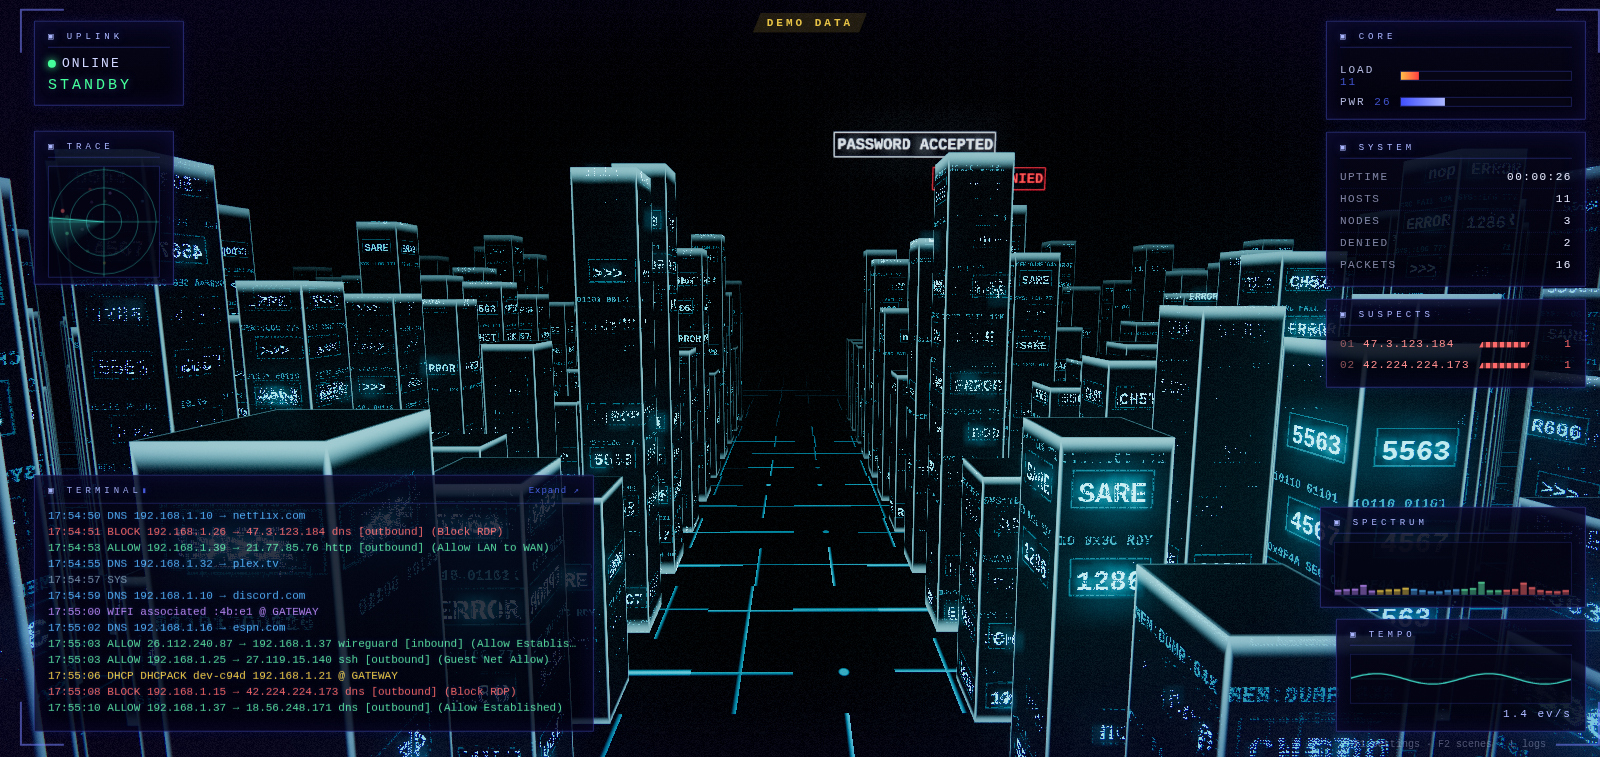
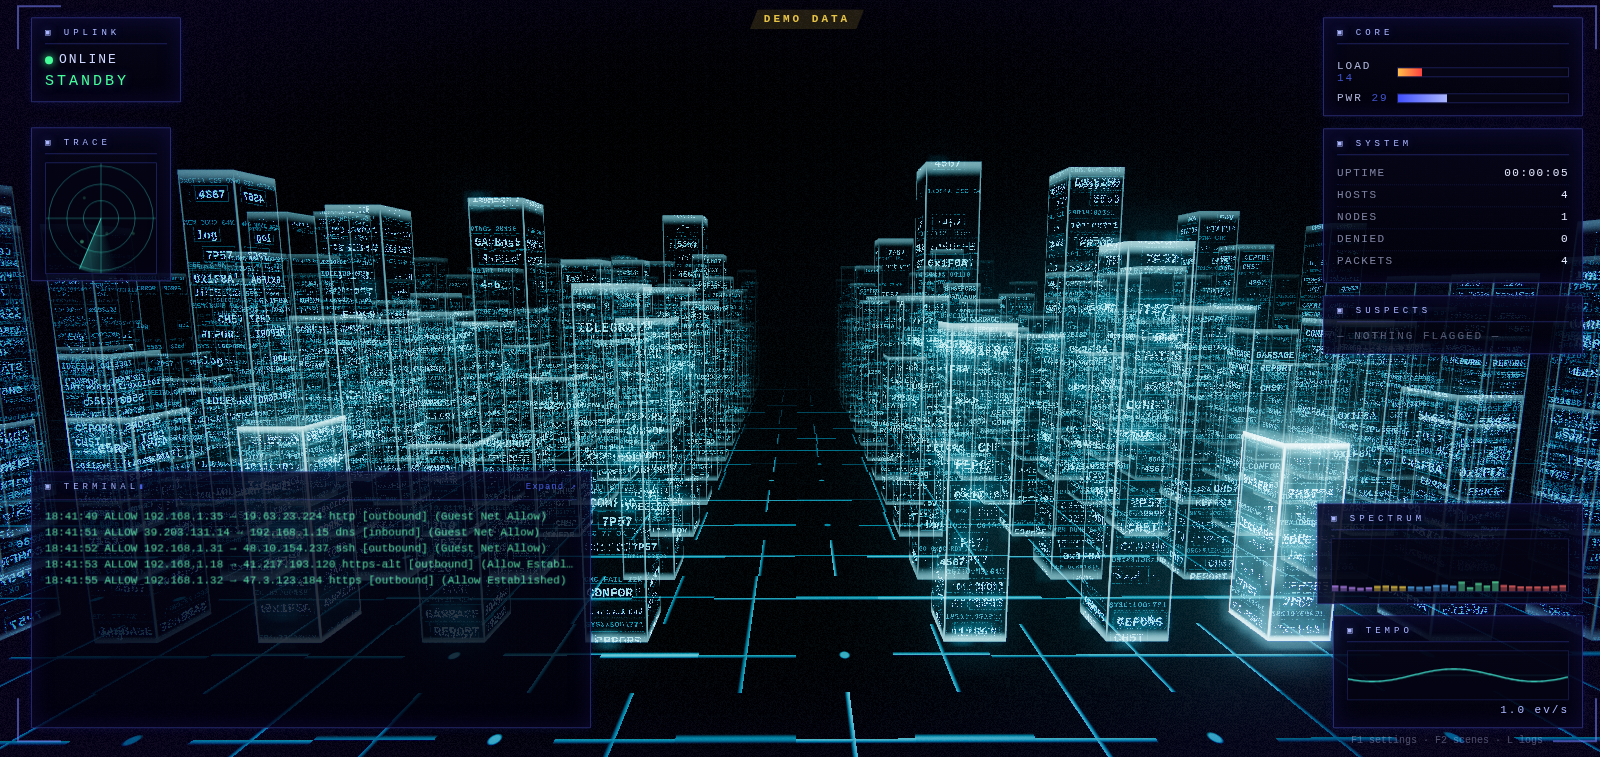
Gibson: translucent towers, always standing, slower fly-through, denser faces
- towers are additive-blended hologram glass (depthWrite off): the ones
  behind show clean through the ones in front, order-independent on black
- no rise-up: every tower stands at full height from the start and on
  recycle; a DHCP write rewrites a far tower in place instead
- drift speed roughly halved - it is a slow fly-through, not a ride
- atlas packs two word-boxes plus a log line per cell so sides read dense

diff --git a/web/src/themes/gibson/towers.ts b/web/src/themes/gibson/towers.ts
@@ -1,16 +1,16 @@
 import {
-  BoxGeometry, Color, DynamicDrawUsage, InstancedBufferAttribute, InstancedMesh,
+  AdditiveBlending, BoxGeometry, Color, DynamicDrawUsage, InstancedBufferAttribute, InstancedMesh,
   Matrix4, ShaderMaterial, Vector3, type Scene,
 } from 'three';
 import type { TextAtlas } from './textatlas';
 
 /**
- * The storage wall: a corridor of smoked-glass monoliths lining the way
- * toward the vanishing point, each face covered in glowing cyan listings from
- * the atlas — words in tidy digital boxes — scrolling up or down, with the
- * edge-lit rim-frame of the movie's perspex towers. Towers scroll past,
- * recycle at the far edge and rise back in. Events flash faces white-cyan,
- * or burn a tower red while it's flagged.
+ * The storage wall: a corridor of translucent monoliths lining the way
+ * toward the vanishing point, always standing tall as you fly through them,
+ * each face covered in glowing cyan listings from the atlas — words in tidy
+ * digital boxes — scrolling up or down, with the edge-lit rim-frame of the
+ * movie's perspex towers. Towers drift past and recycle at the far edge.
+ * Events flash faces white-cyan, or burn a tower red while it's flagged.
  */
 
 const SP_X = 2.6;
@@ -69,9 +69,9 @@ const FRAG = /* glsl */`
     vec3 fill = mix(uFill, uRed * 0.22, vRed);
     vec3 edge = mix(uEdge, uRed, vRed);
     vec3 textC = mix(uText, uTextRed, vRed);
-    vec3 col = fill * 0.9;
-    col += edge * frame * (0.62 + vFlash * 2.6);
-    col += textC * tx * (1.85 + vFlash * 2.2) * uPulse;
+    vec3 col = fill * 0.35;
+    col += edge * frame * (0.5 + vFlash * 2.6);
+    col += textC * tx * (1.6 + vFlash * 2.2) * uPulse;
     col += edge * vFlash * 0.12;
     col *= mix(1.0, 0.3, top);
     // black fog: the far wall dissolves, like the film's storage cavern
@@ -111,6 +111,11 @@ export class Towers {
       },
       vertexShader: VERT,
       fragmentShader: FRAG,
+      // translucent hologram glass: additive and depth-write off, so towers
+      // behind show through the ones in front, order-independent on black
+      transparent: true,
+      blending: AdditiveBlending,
+      depthWrite: false,
     });
     this.build(scene, 7, 10);
   }
@@ -136,7 +141,7 @@ export class Towers {
     });
     this.z = f((i) => -5 - Math.floor(i / cols) * SP_Z);
     this.hT = f(() => 3 + Math.random() * 5);
-    this.h = f(0);
+    this.h = f((i) => this.hT[i]);
     this.scroll = f(() => Math.random() * 64);
     this.scrollV = f(() => (Math.random() < 0.5 ? -1 : 1) * (0.06 + Math.random() * 0.1));
     this.flash = f(0);
@@ -160,7 +165,7 @@ export class Towers {
   /** u ∈ 0..1 picks a column; burns the nearest tower red for `secs`. */
   flag(u: number, secs: number): void { this.nearest(u, (i) => { this.redT[i] = Math.max(this.redT[i], secs); }); }
 
-  /** A file is being written: recycle a far tower in the column nearest u and let it rise. */
+  /** A file is being written: a far tower in the column nearest u rewrites itself. */
   raise(u: number): void {
     const xt = (u - 0.5) * this.cols * SP_X;
     let best = -1, bd = Infinity;
@@ -170,8 +175,7 @@ export class Towers {
       if (d < bd) { bd = d; best = i; }
     }
     if (best < 0) return;
-    this.h[best] = 0.02;
-    this.hT[best] = 3 + Math.random() * 5;
+    this.hT[best] = this.h[best] = 3 + Math.random() * 5;
     this.flash[best] = 1;
     this.aSeed.setX(best, Math.random());
   }
@@ -195,11 +199,10 @@ export class Towers {
       this.z[i] += speed * dt;
       if (this.z[i] > CAM_Z + 2) {
         this.z[i] -= span;
-        this.h[i] = 0.02;
         this.hT[i] = 3 + Math.random() * 5;
+        this.h[i] = this.hT[i];
         this.aSeed.setX(i, Math.random());
       }
-      this.h[i] += (this.hT[i] - this.h[i]) * Math.min(1, dt * 1.1);
       this.scroll[i] += this.scrollV[i] * dt;
       this.flash[i] *= Math.exp(-dt * 2.6);
       if (this.redT[i] > 0) this.redT[i] -= dt;

diff --git a/web/src/themes/gibson/textatlas.ts b/web/src/themes/gibson/textatlas.ts
@@ -66,30 +66,32 @@ export class TextAtlas {
     const c = this.ctx;
     c.fillStyle = '#000';
     c.fillRect(0, 0, this.canvas.width, this.canvas.height);
+    const pick = (): string =>
+      this.words.length && Math.random() < 0.34
+        ? this.words[(Math.random() * this.words.length) | 0]
+        : TOKENS[(Math.random() * TOKENS.length) | 0];
+    const box = (word: string, x: number, y: number): void => {
+      const size = word.length > 11 ? 15 : word.length > 8 ? 19 : 24;
+      c.font = `bold ${size}px "Courier New", monospace`;
+      const bw = c.measureText(word).width + 12;
+      if (bw > CW - 10) return;
+      const bh = size + 8;
+      const bx = x + 4 + Math.random() * (CW - 8 - bw);
+      c.strokeStyle = 'rgba(52, 200, 255, 0.4)';
+      c.lineWidth = 2;
+      c.strokeRect(bx, y, bw, bh);
+      c.fillStyle = word === 'GARBAGE' || word === 'GOD' ? '#e8fbff' : '#5fe6ff';
+      c.fillText(word, bx + 6, y + bh - 6);
+    };
     for (let r = 0; r < ROWS; r++) {
       for (let col = 0; col < COLS; col++) {
-        if (Math.random() < 0.05) continue;
-        let word: string;
-        if (this.words.length && Math.random() < 0.34) word = this.words[(Math.random() * this.words.length) | 0];
-        else word = TOKENS[(Math.random() * TOKENS.length) | 0];
-        const size = word.length > 11 ? 18 : word.length > 8 ? 24 : 30;
-        c.font = `bold ${size}px "Courier New", monospace`;
-        const w = c.measureText(word).width;
-        const bw = w + 12;
-        if (bw > CW - 10) continue;
-        const bh = size + 9;
-        const bx = 5 + Math.random() * (CW - 10 - bw);
-        const by = 4 + Math.random() * (CH * 0.55 - bh);
-        c.strokeStyle = 'rgba(52, 200, 255, 0.4)';
-        c.lineWidth = 2;
-        c.strokeRect(col * CW + bx, r * CH + by, bw, bh);
-        c.fillStyle = word === 'GARBAGE' || word === 'GOD' ? '#e8fbff' : '#5fe6ff';
-        c.fillText(word, col * CW + bx + 6, r * CH + by + bh - 6);
-        if (Math.random() < 0.75) {
+        const x = col * CW, y = r * CH;
+        box(pick(), x, y + 3 + Math.random() * 8);
+        if (Math.random() < 0.85) box(pick(), x, y + 38 + Math.random() * 8);
+        if (Math.random() < 0.8) {
           c.font = `bold 15px "Courier New", monospace`;
           c.fillStyle = 'rgba(40, 165, 205, 0.7)';
-          const sub = SUBS[(Math.random() * SUBS.length) | 0];
-          c.fillText(sub, col * CW + 7, r * CH + CH - 8);
+          c.fillText(SUBS[(Math.random() * SUBS.length) | 0], x + 7, y + CH - 8);
         }
       }
     }

diff --git a/web/src/themes/gibson/index.ts b/web/src/themes/gibson/index.ts
@@ -13,11 +13,11 @@ import { gibsonScore } from './score';
 import './hud.css';
 
 /**
- * The Gibson: the storage wall from the movie, drifting past in the dark.
- * Towers of scrolling listings are your data; allowed traffic sends a pulse
- * of light climbing a face, a denial burns one red and floats an ACCESS
- * DENIED sign over the tops, a DHCP lease writes a brand-new tower that
- * rises out of the floor, and DNS lookups join the listings. When an IDS
+ * The Gibson: the storage wall from the movie, flown slowly through in the
+ * dark. Translucent towers of scrolling listings line the corridor as your
+ * data; allowed traffic sends a pulse of light climbing a face, a denial
+ * burns one red and floats an ACCESS DENIED sign over the tops, a DHCP lease
+ * rewrites a far tower, and DNS lookups join the listings. When an IDS
  * threat lands, the camera swings around to lock onto a red file and rides
  * it until it passes — intruder traced. Rendered with three.js.
  */
@@ -191,7 +191,7 @@ async function create(host: ThemeHost<typeof GIBSON_DEFAULTS>, init: RendererIni
     }
 
     const rate = state.rate30s / 30;
-    const speed = (2.0 + Math.min(6, rate * 0.15) + heat * 2.2) * settings.gScrollSpeed * (lockOn ? 0.3 : 1);
+    const speed = (0.9 + Math.min(2.5, rate * 0.06) + heat * 0.9) * settings.gScrollSpeed * (lockOn ? 0.3 : 1);
     const camX = (lockOn ? lockTarget.x : 0) * 0.25 + f.wanderX * 0.0015;
     world.camera.position.x += (camX - world.camera.position.x) * Math.min(1, dtReal * 1.4);
     world.camera.position.y = 5.5 + f.wanderY * 0.0006;

diff --git a/web/src/themes/registry.ts b/web/src/themes/registry.ts
@@ -22,7 +22,7 @@ export const SCENES: Record<string, { title: string; blurb: string; accent: stri
   spy: { title: 'Panopticon', blurb: 'A made-up planet under watch: signal arcs, satellites, and an eye of god that zooms in on the people behind the traffic.', accent: '#e8c26a' },
   mainframe: { title: 'Mainframe', blurb: 'A god\'s-eye flight over a glowing circuit board at night: traffic races the traces, and dives into chips trace intruders.', accent: '#7ef3ff' },
   aquarium: { title: 'Aquarium', blurb: 'A reef tank: schools of fish for your traffic, pufferfish for blocks, a shark for threats, and bubbles for DNS lookups.', accent: '#6fe6ff' },
-  gibson: { title: 'The Gibson', blurb: 'The storage wall from the movie: smoked-glass towers edged in glowing white, a DHCP lease writes a new one, and the camera locks onto red intruder files.', accent: '#9fd8ff' },
+  gibson: { title: 'The Gibson', blurb: 'The storage wall from the movie: translucent cyan monoliths lining the corridor, a DHCP lease rewrites one, and the camera locks onto red intruder files.', accent: '#5fd6ff' },
 };
 /** Themes in picker order: the known scenes first (as the README lists them), then any others. */
 export const SCENE_ORDER = [...Object.keys(SCENES).filter((id) => THEME_IDS.includes(id)), ...THEME_IDS.filter((id) => !(id in SCENES))];

diff --git a/web/src/themes/gibson/settings.ts b/web/src/themes/gibson/settings.ts
@@ -10,7 +10,7 @@ import { GIBSON_MUSIC } from './score';
 export const GIBSON_DEFAULTS = {
   gPulses: true,        // allow → light pulses run up a tower's face
   gLookups: true,       // dns → the domain joins the scrolling listings
-  gWrites: true,        // dhcp → a new tower rises out of the floor
+  gWrites: true,        // dhcp → a far tower rewrites itself
   gBanners: true,       // ACCESS GRANTED / DENIED / PASSWORD ACCEPTED billboards
   gLock: true,          // threat → the camera swings to lock a red intruder file
   gMusicVisuals: true,  // glow and listings breathe with the music
@@ -45,7 +45,7 @@ export const GIBSON_CONTROLS = {
   scene: [
     toggle('gPulses', 'Face pulses (allow)'),
     toggle('gLookups', 'Scrolling listings (DNS)'),
-    toggle('gWrites', 'New towers (DHCP)'),
+    toggle('gWrites', 'Tower rewrites (DHCP)'),
     toggle('gBanners', 'Access banners'),
     toggle('gLock', 'Target lock (threat)'),
     toggle('gMusicVisuals', 'Move with the music'),

diff --git a/README.md b/README.md
@@ -17,10 +17,10 @@ your own traffic. Pick a scene per screen:
   junctions, diving into chips to trace intruders
 - **Aquarium**: a 3D reef tank in the spirit of the old marine aquarium
   screensavers, where your traffic swims past as fish
-- **The Gibson**: the storage wall from *Hackers* — a corridor of monoliths
-  lined in glowing cyan, their faces covered in terminal listings, drifting
-  past toward the vanishing point, until the camera swings around to lock
-  onto a red file and trace the intruder
+- **The Gibson**: the storage wall from *Hackers* — a corridor of translucent
+  monoliths lined in glowing cyan, their faces covered in terminal listings,
+  flown through slowly toward the vanishing point, until the camera swings
+  around to lock onto a red file and trace the intruder
 
 There's no database, no cloud and nothing is recorded. pewpew only reads syslog
 and never touches the network itself.
@@ -337,7 +337,7 @@ panel's **Apply & reload**.
 
 | Tab | What's in it |
 |-----|--------------|
-| **Scene** | the scene's own toggles. Orbital Command: starfield, nebula, dust, ambient ships, DHCP planets, event stars, asteroids, attack rockets, crystals, IP constellations, ring objects, AP cores, screen shake, move with the music. Last Outpost: zombies, hordes, supply runs, couriers, DNS radio, DHCP arrivals, AP buildings, day/night, rain, blood, screen shake, move with the music. Midnight Run: traffic, roadblocks, police chase, rivals, DNS billboards, Wi-Fi gates, rain, camera nudge, move with the music. Packet Rush: gems, baddies, query blocks, rivals, checkpoints, hunter drone, rain and embers, turbo, boss fights, hero. Panopticon: signal arcs, tracking, satellites, uplinks, ripples, clouds and storms, grid, move with the music, eye of god, and how often the eye is tasked. Mainframe: packets, firewalls, worms and ICE, lookup towers, pick-and-place, antennas, floating addresses, move with the music, flight speed, dive into a chip, and how often it dives. Aquarium: schools, pufferfish, shark, bubbles, residents, treasure chest, light dimming on system log bursts, names and addresses, how many residents the reef holds, current, camera drift. The Gibson: face pulses, scrolling listings, new towers, access banners, target lock, move with the music, scroll speed |
+| **Scene** | the scene's own toggles. Orbital Command: starfield, nebula, dust, ambient ships, DHCP planets, event stars, asteroids, attack rockets, crystals, IP constellations, ring objects, AP cores, screen shake, move with the music. Last Outpost: zombies, hordes, supply runs, couriers, DNS radio, DHCP arrivals, AP buildings, day/night, rain, blood, screen shake, move with the music. Midnight Run: traffic, roadblocks, police chase, rivals, DNS billboards, Wi-Fi gates, rain, camera nudge, move with the music. Packet Rush: gems, baddies, query blocks, rivals, checkpoints, hunter drone, rain and embers, turbo, boss fights, hero. Panopticon: signal arcs, tracking, satellites, uplinks, ripples, clouds and storms, grid, move with the music, eye of god, and how often the eye is tasked. Mainframe: packets, firewalls, worms and ICE, lookup towers, pick-and-place, antennas, floating addresses, move with the music, flight speed, dive into a chip, and how often it dives. Aquarium: schools, pufferfish, shark, bubbles, residents, treasure chest, light dimming on system log bursts, names and addresses, how many residents the reef holds, current, camera drift. The Gibson: face pulses, scrolling listings, tower rewrites, access banners, target lock, move with the music, scroll speed |
 | **HUD** | each HUD panel on or off (names follow the scene), plus scanlines |
 | **Audio** | see [Mixing](#mixing) |
 | **Colour** | hue shift and intensity for the HUD accent; Orbital Command also recolours its host mesh (spectrum, event law, mono, warm, cool). Event colours never change |
@@ -789,15 +789,15 @@ drift** stops the camera.
 ![the gibson](docs/gibson.png)
 
 The storage wall from *Hackers*, rebuilt in 3D: a one-point-perspective
-corridor through a pitch-black void. Towers like server racks line the left
-and right, their faces covered in glowing cyan listings set in neat digital
-boxes — `STATUS`, `ERROR`, `REPORT`, `Security`, `R606`, `>OVERRIDE`, hex and
+corridor through a pitch-black void. Translucent server-rack monoliths,
+always standing, line the left and right as you drift slowly through them,
+their faces covered in glowing cyan listings set in neat digital boxes —
+`STATUS`, `ERROR`, `REPORT`, `Security`, `R606`, `>OVERRIDE`, hex and
 binary — including the hostnames, addresses and domains your own traffic has
 passed by. The floor is laced with cyan circuit traces that run straight to
 the dark vanishing point ahead, the towers wear the glowing edge-frame of the
 film's perspex originals, and ACCESS GRANTED / ACCESS DENIED signs glide past
-now and then. When the wall gets busy it scrolls faster, and a file being
-written rises out of the floor.
+now and then. When the wall gets busy it scrolls faster.
 
 | Event | On the wall |
 |-------|-------------|
@@ -805,7 +805,7 @@ written rises out of the floor.
 | block | a tower burns red for a moment, and an **ACCESS DENIED** sign glides over the tops |
 | threat | a tower is flagged red and the camera swings around to lock onto it — reticle, `TRACKING · <attacker>` readout, the wall slows to a crawl, and the file is stamped **INTRUSION TRACED** as the lock releases |
 | dns | the domain joins the listings scrolling down every face |
-| dhcp | a brand-new tower rises out of the floor, with the device's hostname in the listings |
+| dhcp | one far tower rewrites itself, with the device's hostname in its listings |
 | wifi | a join gets a **PASSWORD ACCEPTED** sign and a bright face pulse; a failure flashes one red |
 | system | nothing on the wall; the music hears it |
 
@@ -1056,7 +1056,7 @@ The wall plays along:
 | block | the denial crackle with a falling tone |
 | threat | two rising lock-on tones and a sweep as the camera swings out, and a big hit with a chord when the file is found |
 | dns | a blip in key as the domain joins the listings |
-| dhcp | a servo whirr and a click as the new tower rises |
+| dhcp | a servo whirr and a click as the tower rewrites itself |
 | wifi | a bell chord for a join, the crackle for a failure |
 | system | nothing; the band carries it |
 
